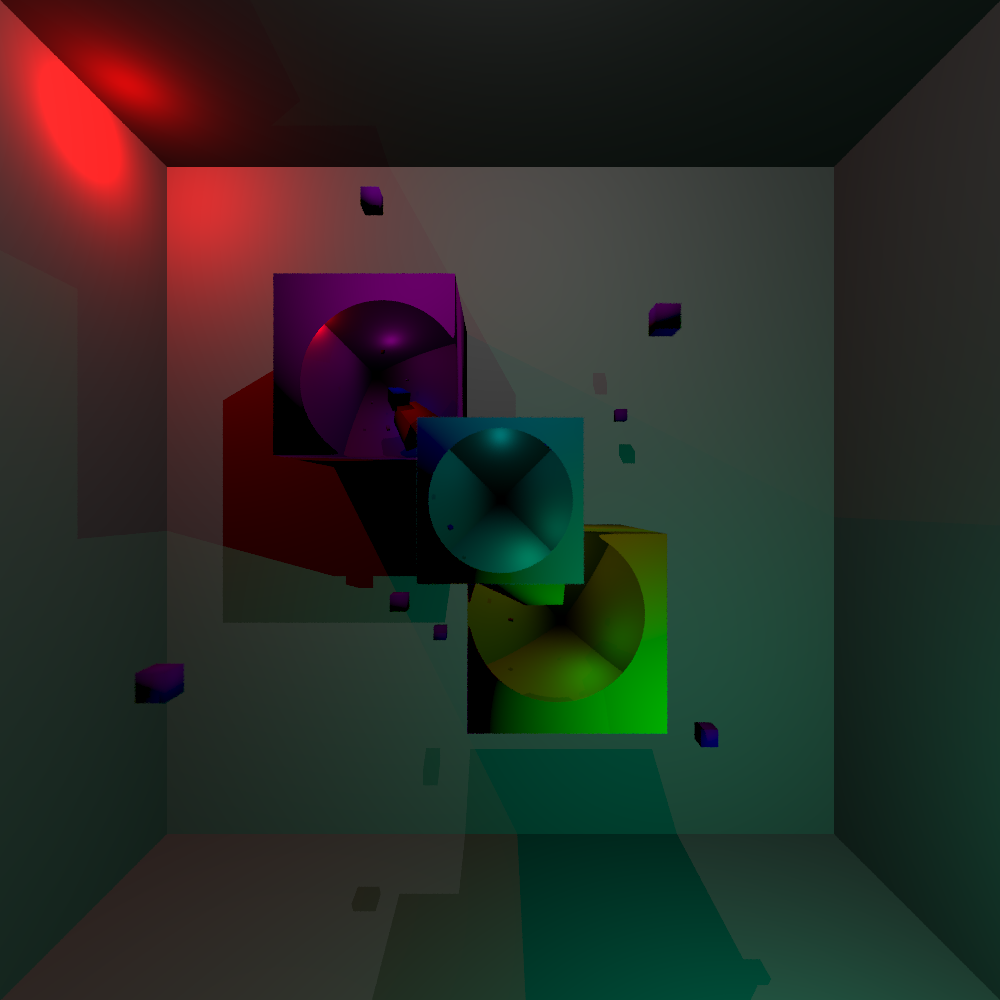
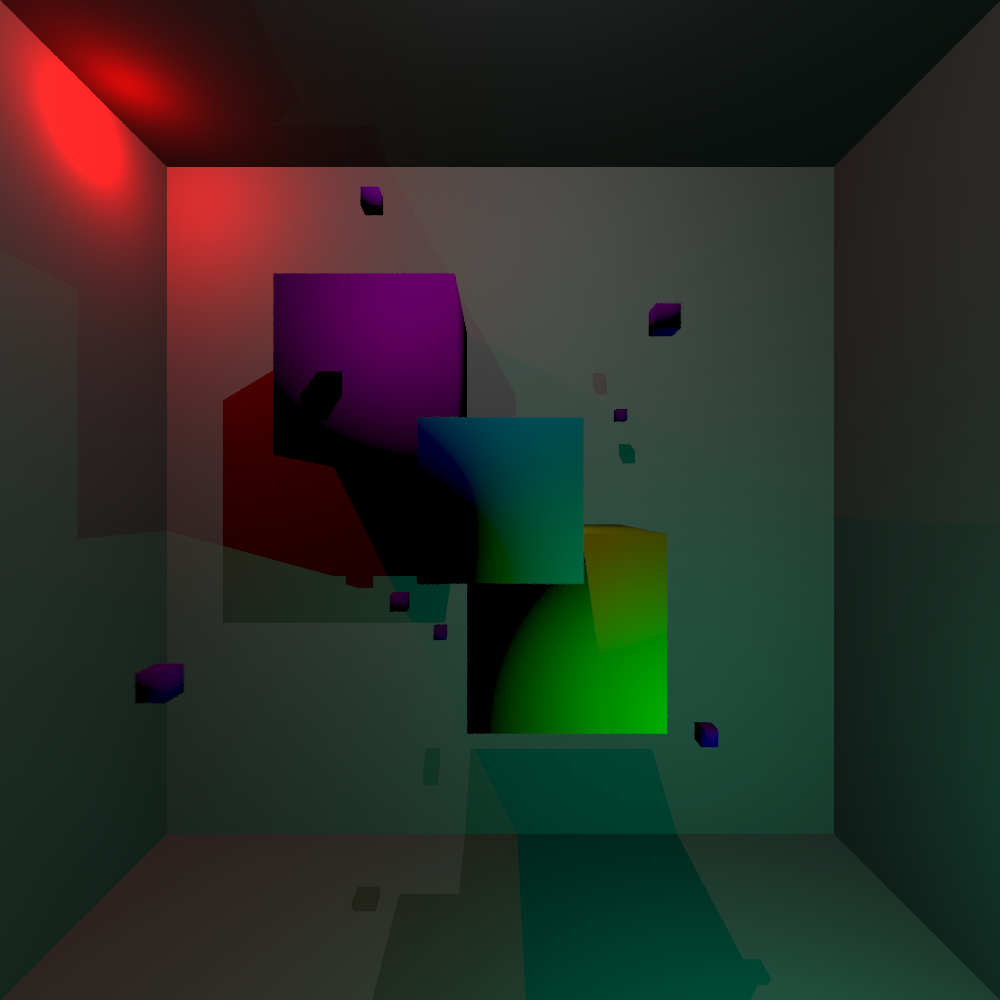
AABB with optimized version working fine

Changed region(s): [[0.279, 0.279, 0.651, 0.713]]

diff --git a/TP2/Synthese_TP2/Sphere.cpp b/TP2/Synthese_TP2/Sphere.cpp
@@ -1,5 +1,6 @@
 #include "Sphere.h"
-#include <iostream>
+#include "AABB.h"
+
 
 Sphere::Sphere(const color3 &albedo, const SceneObjectType &type, const glm::vec3 &center, const float &radius) :
 	SceneObject(albedo, type), m_center(center), m_radius(radius), m_radius2(radius * radius)
@@ -12,62 +13,15 @@ bool Sphere::intersect(const Ray &r, glm::vec3 &position, glm::vec3 &normal, flo
 	glm::vec3 min = m_center - m_radius;
 	glm::vec3 max = m_center + m_radius;
 
-	//float t0x = (min.x - r.m_origin.x) / r.m_direction.x;
-	//float t0y = (min.y - r.m_origin.y) / r.m_direction.y;
-	//float t0z = (min.z - r.m_origin.z) / r.m_direction.z;
-
-	//float t1x = (max.x - r.m_origin.x) / r.m_direction.x;
-	//float t1y = (max.y - r.m_origin.y) / r.m_direction.y;
-	//float t1z = (max.z - r.m_origin.z) / r.m_direction.z;
-
-	float tmin = (min.x - r.m_origin.x) / r.m_direction.x; //t0x
-	float tmax = (max.x - r.m_origin.x) / r.m_direction.x; //t1x
-
-	if (tmin > tmax) std::swap(tmin, tmax);
-
-	float tymin = (min.y - r.m_origin.y) / r.m_direction.y;
-	float tymax = (max.y - r.m_origin.y) / r.m_direction.y;
-
-	if (tymin > tymax) std::swap(tymin, tymax);
-
-	if ((tmin > tymax) || (tymin > tmax))
-		return false;
-
-	if (tymin > tmin)
-		tmin = tymin;
-
-	if (tymax < tmax)
-		tmax = tymax;
-
-	float tzmin = (min.z - r.m_origin.z) / r.m_direction.z;
-	float tzmax = (max.z - r.m_origin.z) / r.m_direction.z;
-
-	if (tzmin > tzmax) std::swap(tzmin, tzmax);
-
-	if ((tmin > tzmax) || (tzmin > tmax))
-		return false;
-
-	if (tzmin > tmin)
-		tmin = tzmin;
-
-	if (tzmax < tmax)
-		tmax = tzmax;
-
-
-	if (tmin <= 0) {
-		if (tmax <= 0) {
-			return false;
-		} else {
-			t = tmax;
-		}
-	} else {
-		t = tmin;
+	AABB BBox(min, max);
+	if (BBox.intersect(r, t)){
+		position = r.m_origin + t * r.m_direction * 0.9999f;
+		normal = glm::normalize(position - m_center);
+		return true;
 	}
 
-	position = r.m_origin + t * r.m_direction * 0.9999f;
-	normal = glm::normalize(position - m_center);
-
-	return true;
+	return false;
+	
 
 
 	

diff --git a/TP2/Synthese_TP2/AABB.cpp b/TP2/Synthese_TP2/AABB.cpp
@@ -1,3 +1,49 @@
 #include "AABB.h"
 
-AABB::AABB(const glm::vec3 &minBorder, const glm::vec3 &maxBorder) : m_minBorder(minBorder), m_maxBorder(maxBorder) {}
+AABB::AABB(glm::vec3 &minBorder, glm::vec3 &maxBorder) {
+	bounds[0] = minBorder;
+	bounds[1] = maxBorder;
+}
+
+
+bool AABB::intersect(const Ray &r, float &t) {
+
+	float tmin, tmax, tymin, tymax, tzmin, tzmax;
+
+	tmin = (bounds[r.sign[0]].x - r.m_origin.x) * r.invdir.x;
+	tmax = (bounds[1 - r.sign[0]].x - r.m_origin.x) * r.invdir.x;
+	tymin = (bounds[r.sign[1]].y - r.m_origin.y) * r.invdir.y;
+	tymax = (bounds[1 - r.sign[1]].y - r.m_origin.y) * r.invdir.y;
+
+	if ((tmin > tymax) || (tymin > tmax))
+		return false;
+	if (tymin > tmin)
+		tmin = tymin;
+	if (tymax < tmax)
+		tmax = tymax;
+
+	tzmin = (bounds[r.sign[2]].z - r.m_origin.z) * r.invdir.z;
+	tzmax = (bounds[1 - r.sign[2]].z - r.m_origin.z) * r.invdir.z;
+
+	if ((tmin > tzmax) || (tzmin > tmax))
+		return false;
+	if (tzmin > tmin)
+		tmin = tzmin;
+	if (tzmax < tmax)
+		tmax = tzmax;
+
+	if (tmin <= 0) {
+		if (tmax <= 0) {
+			return false;
+		}
+		else {
+			t = tmax;
+		}
+	}
+	else {
+		t = tmin;
+	}
+
+	return true;
+
+}

diff --git a/TP2/Synthese_TP2/AABB.h b/TP2/Synthese_TP2/AABB.h
@@ -2,13 +2,19 @@
 
 #include <glm/glm.hpp>
 
+#include "Ray.h"
+#include <algorithm>    // std::swap
+
+/*
+	Using optimized method of https://www.scratchapixel.com/lessons/3d-basic-rendering/minimal-ray-tracer-rendering-simple-shapes/ray-box-intersection
+*/
+
 class AABB
 {
 private:
-	glm::vec3 m_minBorder;
-	glm::vec3 m_maxBorder;
+	glm::vec3 bounds[2];
 
 public:
-	AABB(const glm::vec3 &minBorder, const glm::vec3 &maxBorder);
-
+	AABB(glm::vec3 &minBorder, glm::vec3 &maxBorder);
+	bool intersect(const Ray &r, float &t);
 };

diff --git a/TP2/Synthese_TP2/Ray.h b/TP2/Synthese_TP2/Ray.h
@@ -8,5 +8,13 @@ public:
 	glm::vec3 m_origin;
 	glm::vec3 m_direction;
 
-	Ray(const glm::vec3 &origin, const glm::vec3 &direction) : m_origin(origin), m_direction(glm::normalize(direction)) {}
+	glm::vec3 invdir;
+	int sign[3];
+
+	Ray(const glm::vec3 &origin, const glm::vec3 &direction) : m_origin(origin), m_direction(glm::normalize(direction)) {
+		invdir = 1.0f / m_direction; //Divion regrouped to reduce cost
+		sign[0] = (invdir.x < 0);
+		sign[1] = (invdir.y < 0);
+		sign[2] = (invdir.z < 0);
+	}
 };

diff --git a/TP2/Synthese_TP2/Synthese_TP2.cpp b/TP2/Synthese_TP2/Synthese_TP2.cpp
@@ -29,7 +29,7 @@ int main()
     unsigned int width = 1000;
     unsigned int height = 1000;
     unsigned int nbRayCastPerPixel = 8;
-    unsigned int maxDepth = 1;
+    unsigned int maxDepth = 0;
 
     // Orthogonal Camera
     //std::shared_ptr<Camera> cam = std::shared_ptr<OrthographicCamera>(new OrthographicCamera(width, height, glm::vec3(0, 0, 0), glm::vec3(0, 0, 1)) );
